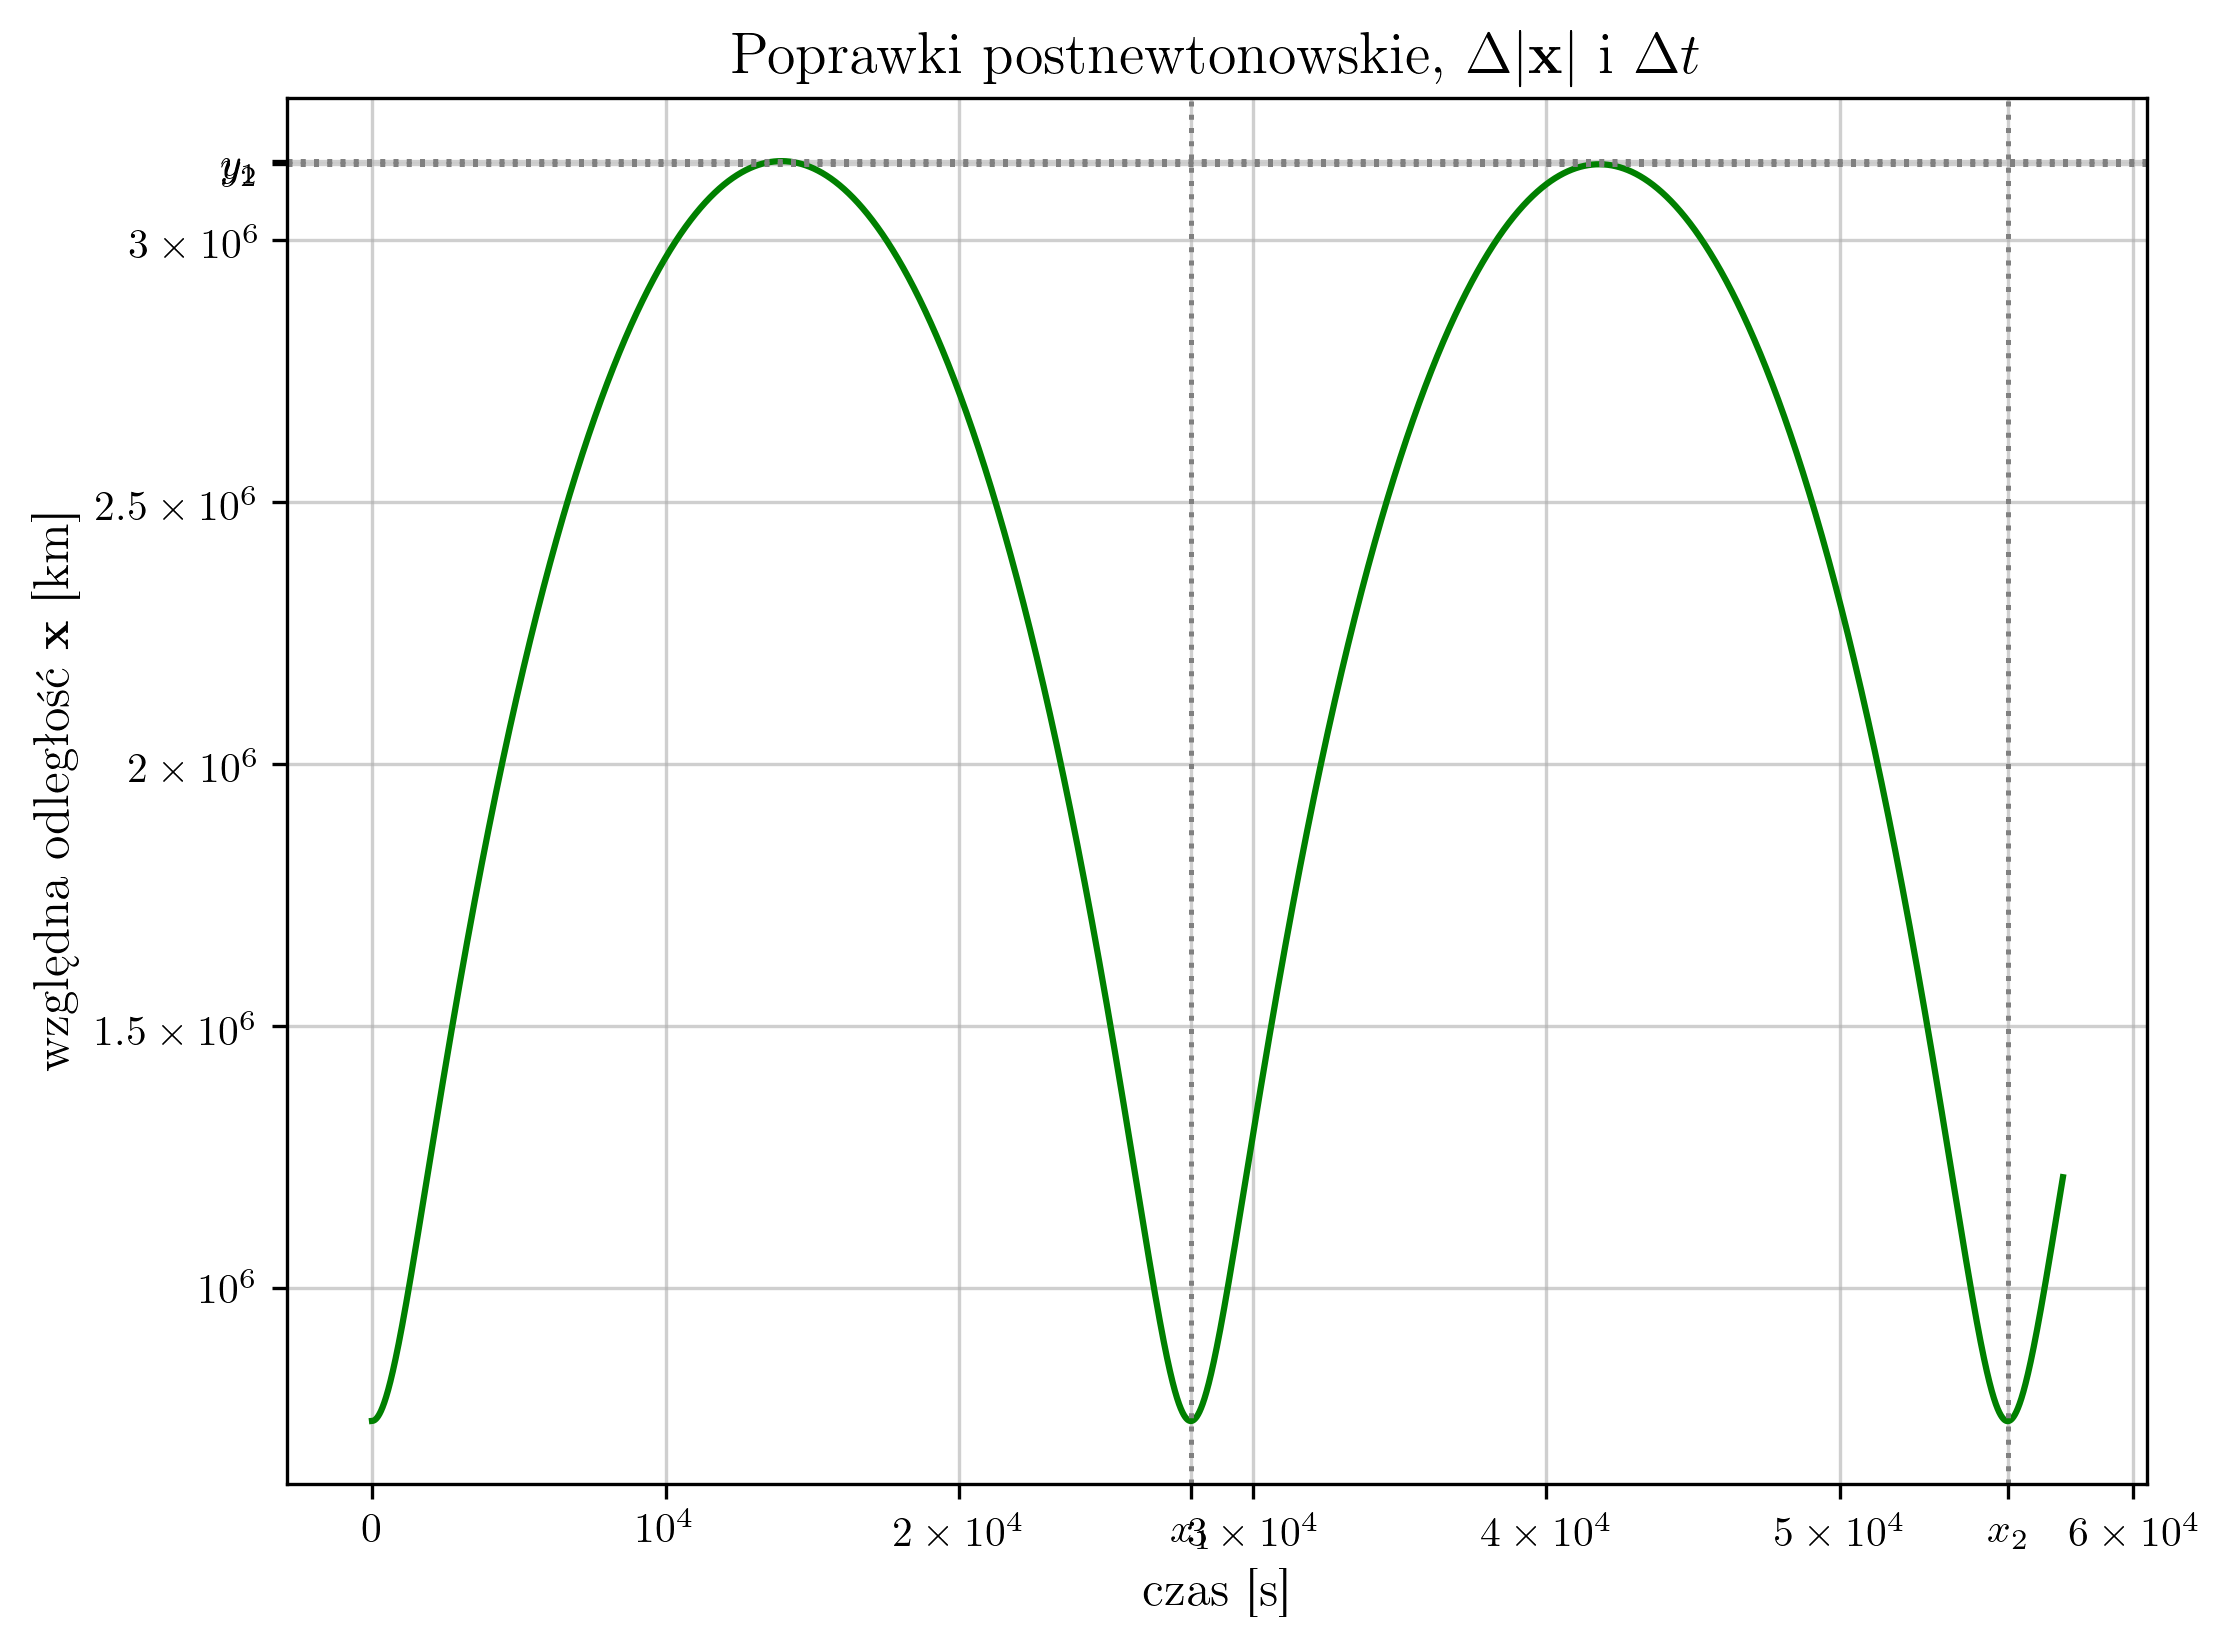
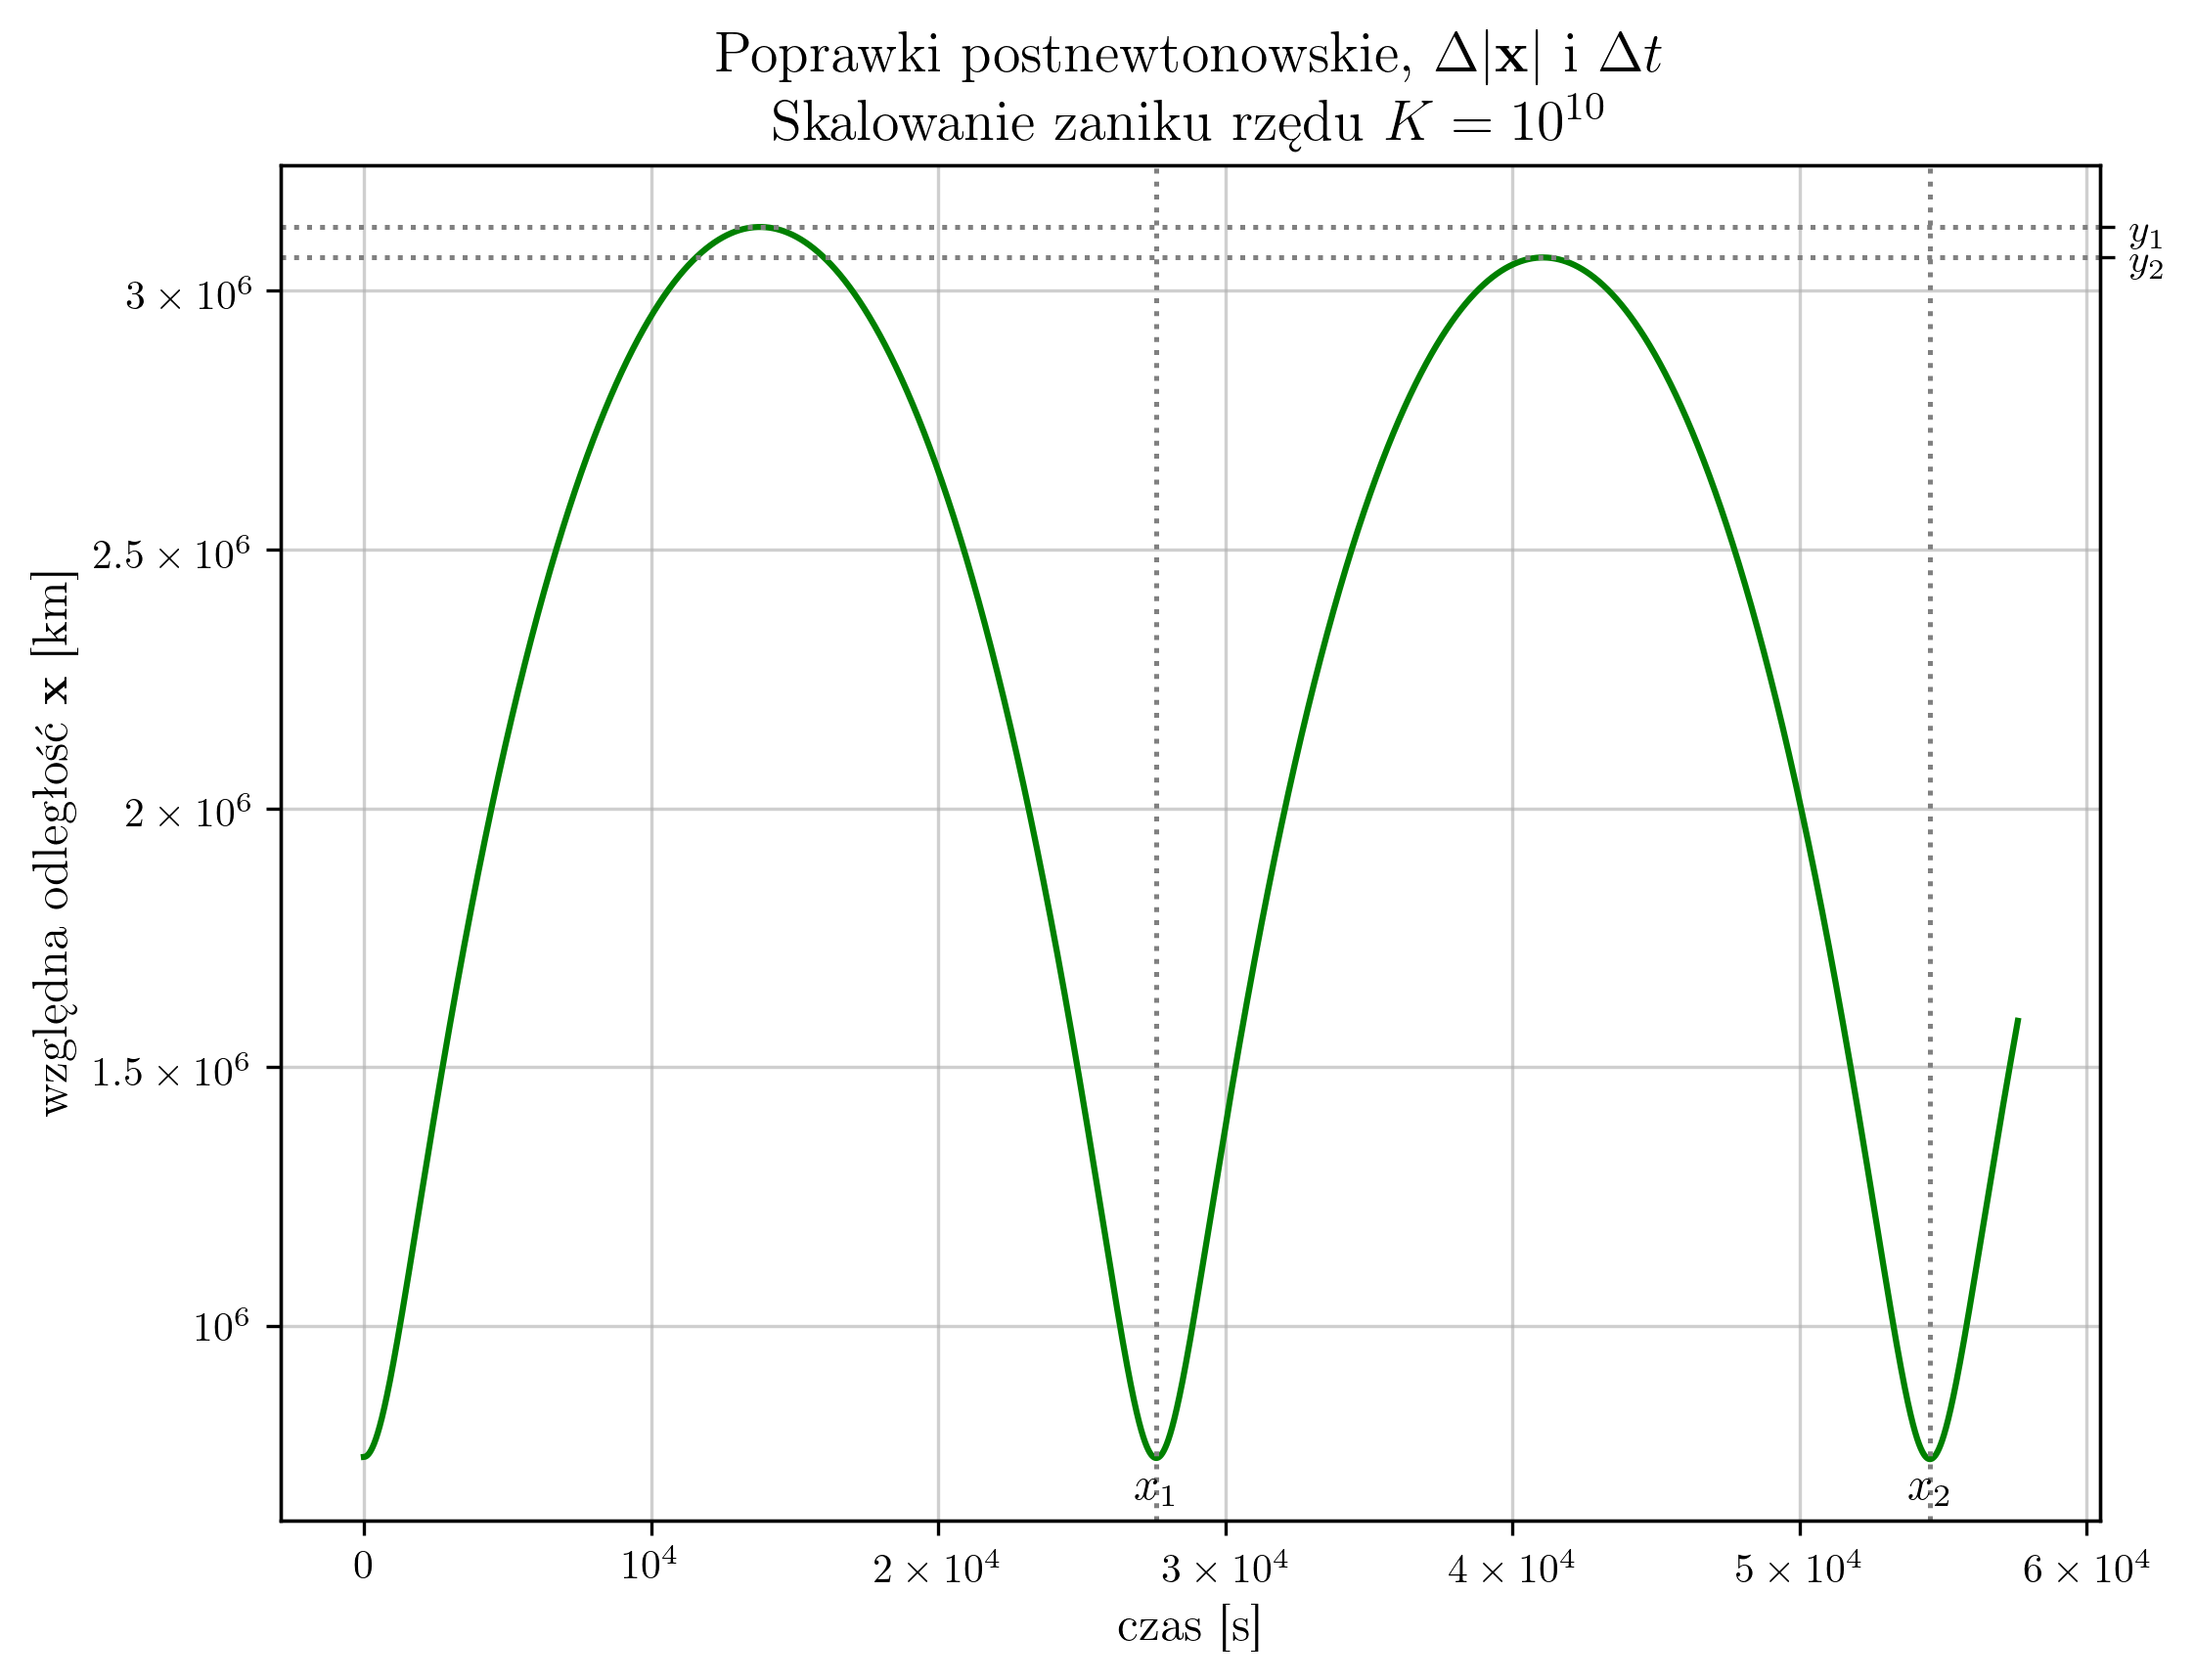
Revamped

diff --git a/dormand-algorithm/prince.py b/dormand-algorithm/prince.py
@@ -1,0 +1,77 @@
+import numpy as np
+import matplotlib.pyplot as plt
+from scipy.integrate import solve_ivp
+from scipy.signal import argrelextrema
+
+#Obowiązujące jednostki: kilometr, sekunda, masa Słońca
+#Warunki początkowe:
+#Masy:
+m1 = 1.441 # [M_Słońca]
+m2 = 1.387 # [M_Słońca]
+m = m1 + m2 # [M_Słońca]
+m_efektywna = m1*m2/m # [M_Słońca]
+eta = m_efektywna/m # [1]
+#Inne:
+G = 132712878914.24 # [km^3 s^-2 M_Słońca^-1]
+#Położenia:
+initial_position_1 = [0.0, 0.0, 0.0] # [km]
+initial_position_2 = [746600.0, 0.0, 0.0] # [km]
+#Prędkości:
+initial_velocity_1 = [0.0, 0.0, 0.0] # [km s^-1]
+initial_velocity_2 = [0.0, 450.0, 0.0] # [km s^-1]
+#Razem:
+initial_conditions = np.array([
+    initial_position_2,
+    initial_velocity_2
+]).ravel()
+
+#Równanie:
+def uklad_rownan(t,S, m, eta, G):
+    x = S[0:3]
+    dx_dt = S[3:6]
+    y = dx_dt
+
+    dy_dt = - G*m*x/np.linalg.norm(x)**3 - (8/5)*eta*m**2/np.linalg.norm(x)**3 * (-(18*np.linalg.norm(y)**2 + 2*m/(3*np.linalg.norm(x)) - 25*(np.dot(x, y)/np.linalg.norm(x))**2)*(np.dot(x, y)/np.linalg.norm(x)**2)*x + (6*np.linalg.norm(y)**2 - 2*m/np.linalg.norm(x) - 15*(np.dot(x, y)/np.linalg.norm(x))**2)*y)
+    return np.array([y, dy_dt]).ravel()
+
+#Punkty czasowe:
+time_s, time_e = 0, 94200
+t_points = np.linspace(time_s, time_e, 942001)
+
+#Rozwiązanie:
+solution = solve_ivp(fun=uklad_rownan, t_span=(time_s, time_e), y0=initial_conditions, method="RK45", t_eval=t_points, args=(m, eta, G))
+
+#Teraz trzeba ten wynik jakoś przetworzyć:
+polozenie = np.asarray(np.sqrt((solution.y[3]-solution.y[0])**2 + (solution.y[4]-solution.y[1])**2 + (solution.y[5]-solution.y[2])**2))
+#wartosc_apoapsis = [746600]
+#wartosc_periapsis = []
+#czas_apoapsis = [0]
+#czas_periapsis = []
+#pol_os_wielka = []
+#czas_osi = []
+#os = [0]
+
+#Szukanie ekstremów położenia:
+czas_apoapsis = np.asarray(argrelextrema(polozenie, np.greater))
+czas_periapsis = np.array(argrelextrema(polozenie, np.less))
+
+#Tu następuje obliczenie półosi wielkiej:
+pol_os_wielka = np.asarray((polozenie[czas_apoapsis] + polozenie[czas_periapsis])/2)
+#czas, w którym zachodzi półoś przyjmiemy jako czas, w którym zachodzi apoapsis
+
+#Tu będzie obliczenie tempa zmiany półosi wielkiej w czasie:
+tempo_zmiany = []
+yyy = 0
+for i in range(1, 41):
+    yyy = (pol_os_wielka[0][i] - pol_os_wielka[0][i-1])/(czas_apoapsis[0][i] - czas_apoapsis[0][i-1])
+    tempo_zmiany.append(yyy)
+print(tempo_zmiany)
+np.savetxt("tempo_zmiany_półosi_wielkiej.txt", tempo_zmiany, header='Tempo zmiany półosi wielkiej [km/s]')
+
+#Tu są wykresy:
+skala = 0.1
+plt.plot(t_points, polozenie)
+#plt.plot(czas_apoapsis*skala, polozenie[czas_apoapsis], 'x')
+#plt.plot(czas_periapsis*skala, polozenie[czas_periapsis], 'x')
+plt.plot(czas_apoapsis*skala, pol_os_wielka, 'o')
+plt.show()

diff --git a/README.md b/README.md
@@ -1,5 +1,16 @@
-![Project Overview](images/overview.png)
+<p align="center">
+  <img src="images/overview.png" alt="Project Overview" width="50%">
+  <br>
+  <em>Na grafice przedstawiono odległość składowych badanego układu w funkcji czasu. Wpływ poprawek postnewtonowskich przeskalowano przez czynnik 10<sup>10</sup></em>
+</p>
 
-When using g++, compile the project using
+Repozytorium projektowe Zespołowego Projektu Studenckiego wykonanego w semestrze letnim 2026 pod opieką [dr Imię Nazwisko] na Wydziale Fizyki UW. 
+
+Ilościowym badaniom poddano zanik półosi wielkiej oraz okresu orbitalnego pulsara Hulse'go-Taylora w reżimie postnewtonowskim. Zagadnienie rozpatrzono dwiema metodami: wyzyskując algorytm Runge-Kutty oraz Dormanda-Prince'a.
+
+### Algorytm Runge-Kutty
+
+Kod napisany w C++ należy kompilować, załączając trzy biblioteki własne. Przykładowe polecenie — zakładające strukturę folderu projektowego zgodną z tą w repozytorium — zamieszczono poniżej:
+
+```bash
 g++ main.cpp lib/vectors.cpp lib/writers.cpp lib/kutta.cpp -Ilib -o main
-we assume the structure of the repository mirrors the one on the user's machine.